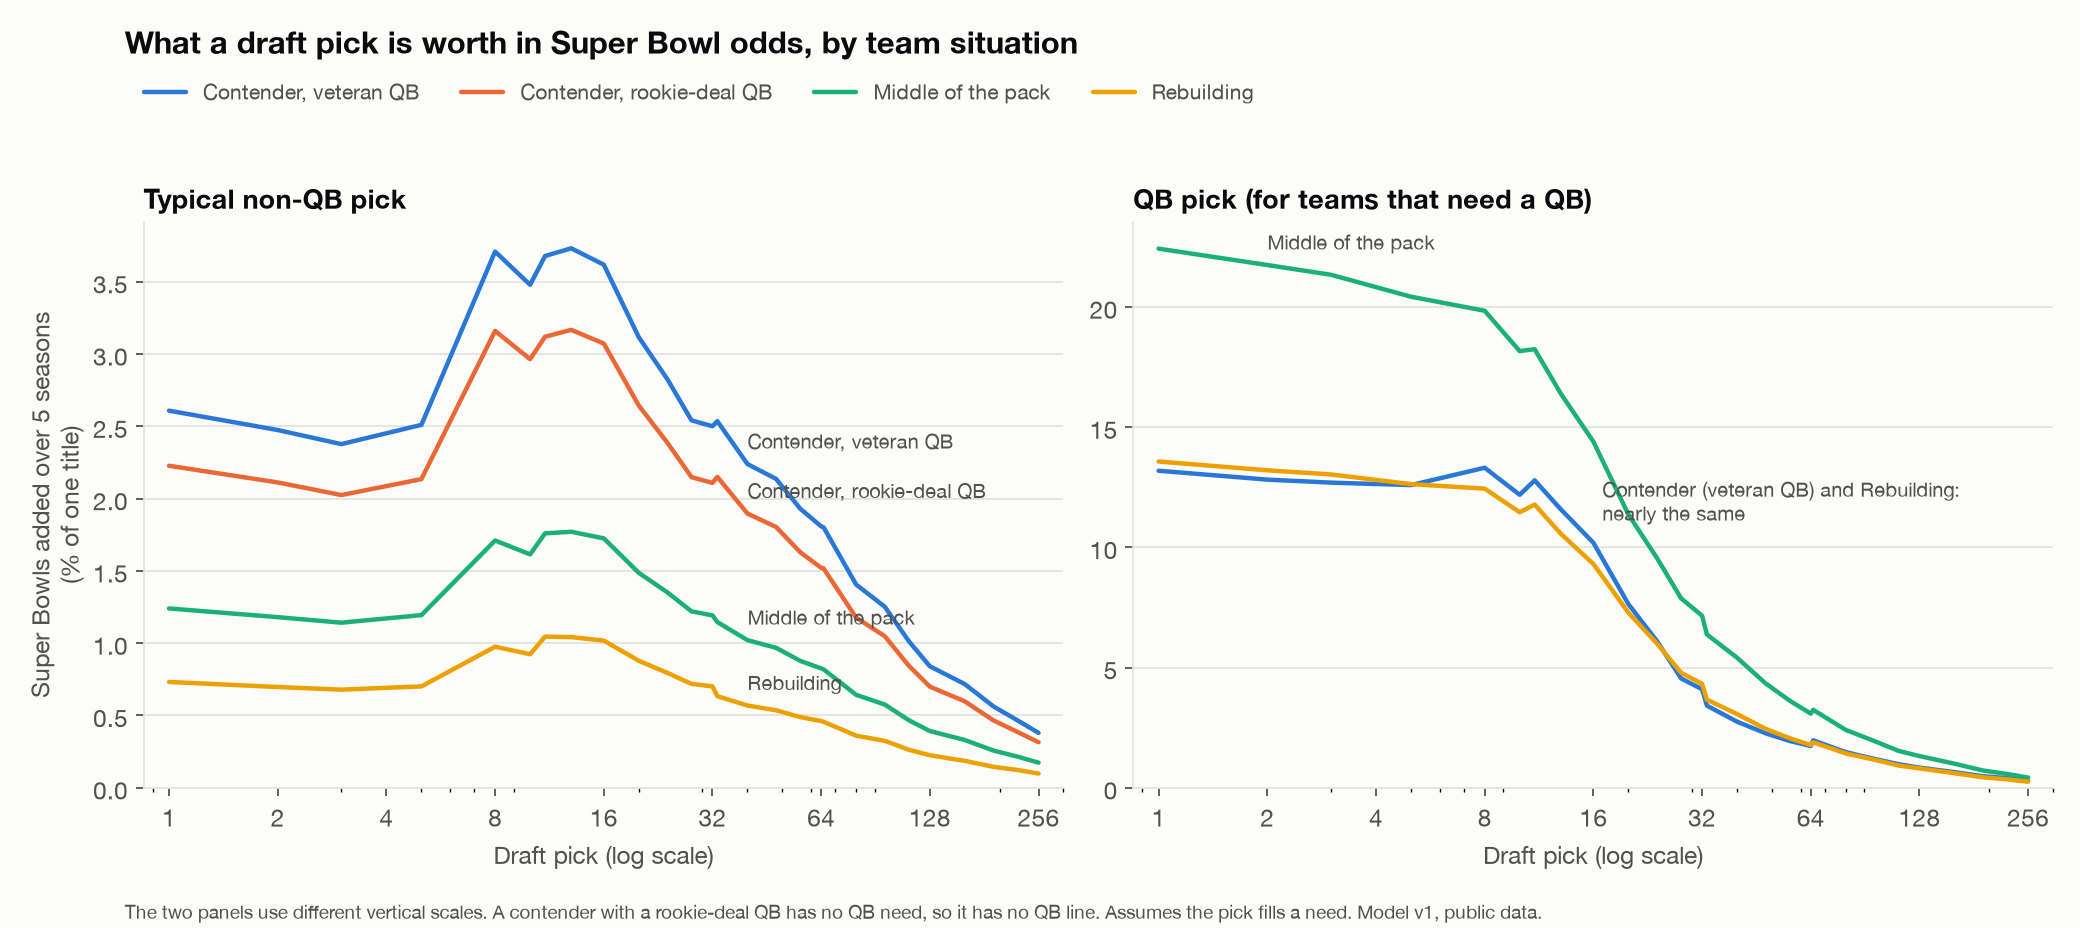
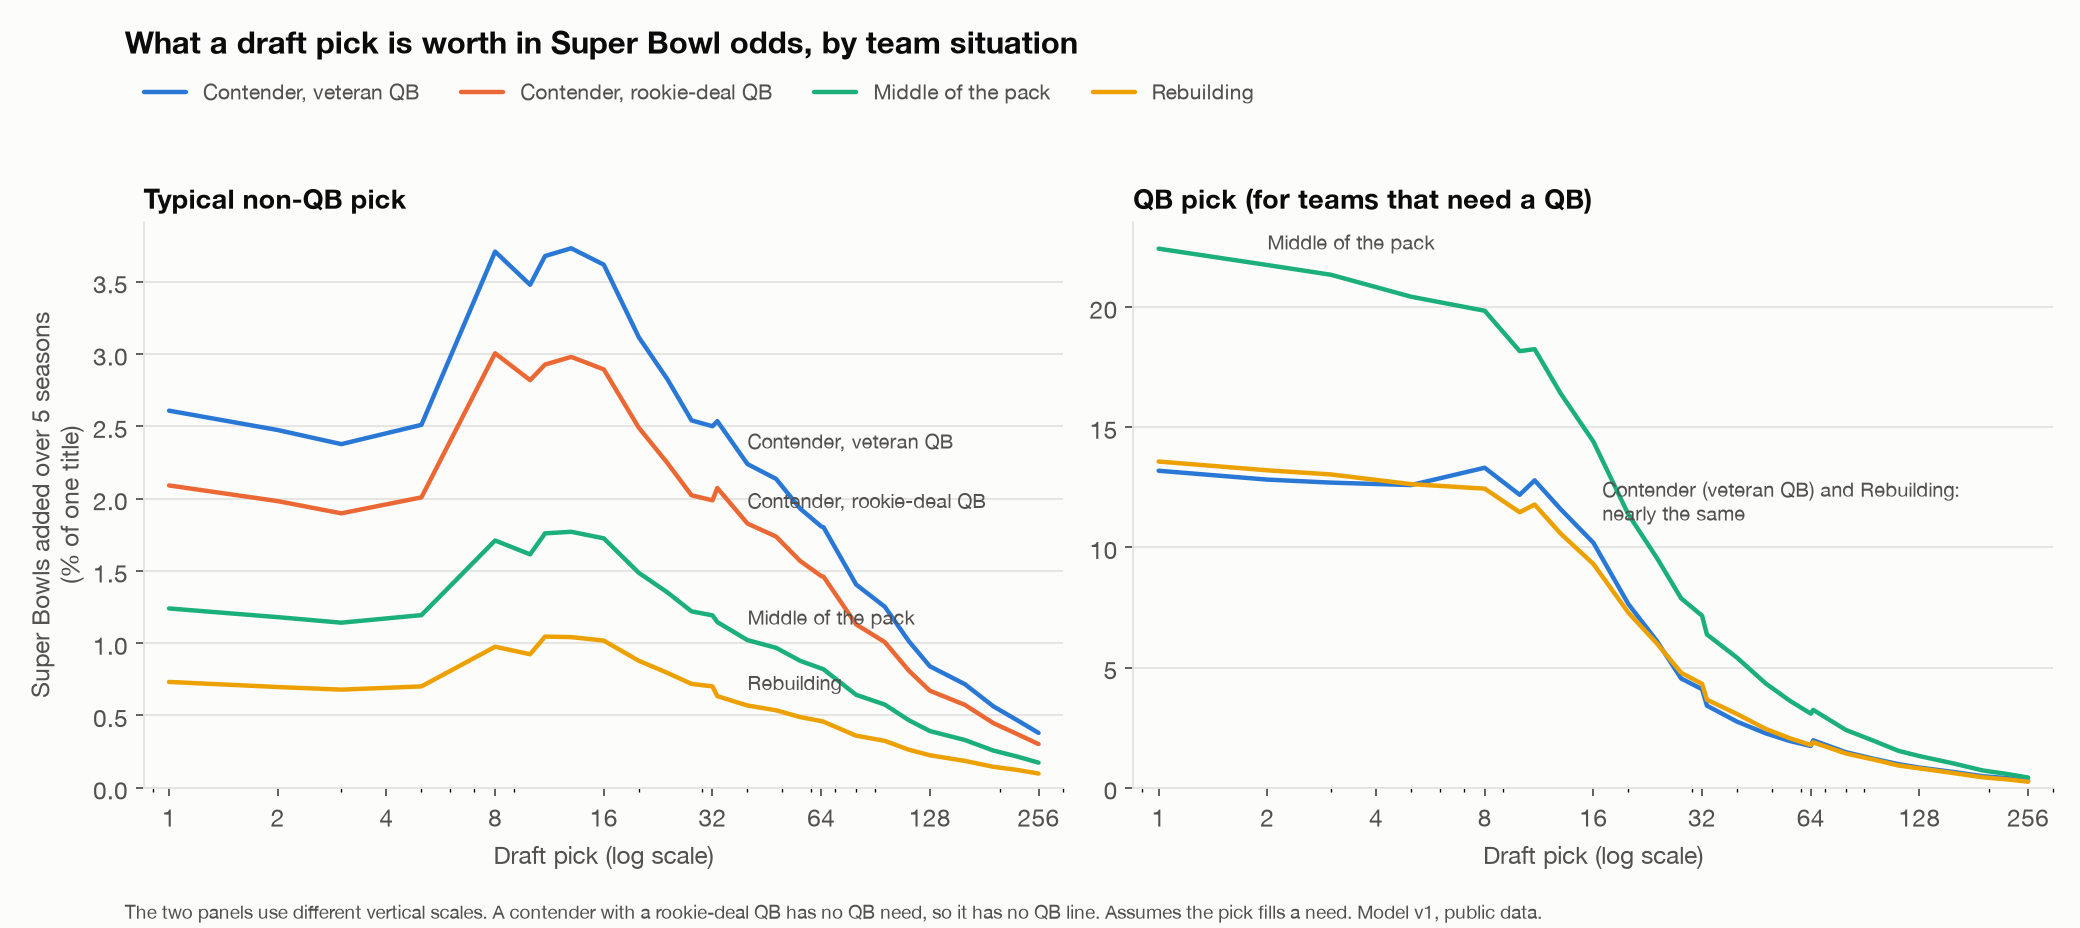
Real teams: 2027 draft value and trade verdicts for all 32 teams

diff --git a/src/teams.py b/src/teams.py
@@ -1,0 +1,225 @@
+"""Real teams: the 2027 draft from each team's actual situation.
+
+For each of the 32 teams:
+  1. Strength now: ratings fit to the betting lines of 2026 games (recent weeks
+     weighted more). The market already prices injuries and QB changes.
+     Expected 2027 strength = carryover (0.60) x strength now.
+  2. QB situation, from the QB with the most 2026 snaps, his contract and age:
+       rookie deal, round 1   -> no QB need; when his second contract starts, the
+                                 team loses ~3 pts (about 15% of cap moves to him)
+       rookie deal, later pick -> unproven; a drafted QB could take over in season 2
+       veteran aged 36+       -> successor needed as he ages out
+       veteran paid < 7% of cap -> stopgap; QB needed now
+       veteran paid more      -> no QB need
+  3. 2027 draft slot: the rest of the 2026 season simulated from actual results so
+     far and the market ratings. Draft order is by record (playoff teams last).
+     2027 firsts already traded (per the trade data, which ends April 2026) move
+     with their new owners.
+Then for each team: its first-round picks' value in Super Bowl odds, and verdicts
+on three moves (trade down, trade up for a QB if needed, sell next year's 1st).
+
+Everything here is a rule of thumb that the user can override per team via
+OVERRIDES (e.g. a QB injury the snap counts misread).
+"""
+from datetime import date
+
+import numpy as np
+import pandas as pd
+import polars as pl
+
+from outlook import OUT, RAW
+from pick_value import START_SD
+from simulate import RELOCATED, load_schedules
+from trade import Context, Pick, evaluate
+
+SEASON = 2026
+CARRY = 0.60
+QB_SHIFT = -3.0
+OVERRIDES: dict[str, dict] = {}  # e.g. {"NYJ": {"qb_from": 1}} after checking the news
+N = 10000
+
+
+# ---------- 1. strength now ----------
+
+def market_ratings(sched: pd.DataFrame) -> tuple[pd.Series, float]:
+    """Least-squares ratings from 2026 betting lines; recent weeks count more."""
+    g = sched[(sched.season == SEASON) & (sched.game_type == "REG") & sched.spread_line.notna()].copy()
+    last = g[g.result.notna()].week.max()
+    w = 0.5 ** ((last - g.week).clip(lower=0) / 4)  # half weight every 4 weeks back
+    teams = sorted(set(g.home_team) | set(g.away_team))
+    idx = {t: i for i, t in enumerate(teams)}
+    X = np.zeros((len(g), len(teams) + 1))
+    X[np.arange(len(g)), g.home_team.map(idx)] = 1
+    X[np.arange(len(g)), g.away_team.map(idx)] = -1
+    X[:, -1] = (g.location != "Neutral").astype(float)
+    sw = np.sqrt(w.to_numpy())
+    A = np.vstack([X * sw[:, None], np.r_[np.ones(len(teams)), 0] * 100])
+    y = np.r_[g.spread_line.to_numpy() * sw, 0]
+    beta, *_ = np.linalg.lstsq(A, y, rcond=None)
+    sign = np.sign(np.corrcoef(g.spread_line[g.result.notna()], g.result[g.result.notna()])[0, 1])
+    return pd.Series(beta[:-1] * sign, index=teams), beta[-1] * sign
+
+
+# ---------- 2. QB situation ----------
+
+def qb_situations(teams: list[str]) -> pd.DataFrame:
+    s = pl.read_parquet(RAW / "snap_counts_2026.parquet").filter(
+        (pl.col("position") == "QB") & (pl.col("game_type") == "REG")).to_pandas()
+    s["team"] = s.team.replace(RELOCATED)
+    snaps = s.groupby(["team", "pfr_player_id", "player"]).offense_snaps.sum().reset_index()
+    tot = snaps.groupby("team").offense_snaps.transform("sum")
+    snaps["share"] = snaps.offense_snaps / tot
+    players = pd.read_parquet(RAW / "players.parquet")
+    players = players.dropna(subset=["pfr_id"]).drop_duplicates("pfr_id").set_index("pfr_id")
+    c = pd.read_parquet(RAW / "contracts.parquet")
+    # Intended starter, in order:
+    #   1. a first-round QB from the last 3 drafts with 15%+ of snaps (most snaps if two)
+    #   2. the snap leader, if he has 60%+ of snaps
+    #   3. otherwise the highest-paid QB with 20%+ (a backup filling in for an injury)
+    latest_pay = c.sort_values("year_signed").groupby("otc_id").apy_cap_pct.last()
+    otc_of = pd.to_numeric(players.otc_id, errors="coerce")
+    snaps["pay"] = snaps.pfr_player_id.map(otc_of).map(latest_pay).fillna(0)
+    rd = snaps.pfr_player_id.map(players.draft_round)
+    yr = snaps.pfr_player_id.map(players.draft_year)
+    snaps["young_r1"] = (rd == 1) & (yr >= SEASON - 2)
+    picks = {}
+    for team, d in snaps.groupby("team"):
+        y = d[d.young_r1 & (d.share >= 0.15)]
+        lead = d.loc[d.offense_snaps.idxmax()]
+        if len(y):
+            picks[team] = y.loc[y.offense_snaps.idxmax()]
+        elif lead.share >= 0.6:
+            picks[team] = lead
+        else:
+            picks[team] = d[d.share >= 0.2].sort_values("pay").iloc[-1]
+    top = pd.DataFrame(picks).T
+    rows = []
+    for team in teams:
+        r = top.loc[team]
+        p = players.loc[r.pfr_player_id] if r.pfr_player_id in players.index else None
+        otc = pd.to_numeric(p.otc_id, errors="coerce") if p is not None else np.nan
+        k = c[c.otc_id == otc].sort_values("year_signed") if pd.notna(otc) else c.iloc[:0]
+        latest = k.iloc[-1] if len(k) else None
+        draft_year = p.draft_year if p is not None else np.nan
+        rnd = p.draft_round if p is not None else np.nan
+        birth = pd.to_datetime(p.birth_date) if p is not None and pd.notna(p.birth_date) else None
+        age27 = (pd.Timestamp("2027-09-01") - birth).days / 365.25 if birth is not None else np.nan
+        on_rookie = latest is not None and latest.year_signed == latest.draft_year
+        pay = latest.apy_cap_pct if latest is not None else np.nan
+
+        shift, qb_from = {}, None
+        if on_rookie and rnd == 1:
+            status = "rookie deal (1st round)"
+            start_season = int(draft_year) + 4 - SEASON  # 1 = 2027
+            if 1 <= start_season <= 5:
+                shift = {start_season: QB_SHIFT}
+        elif on_rookie:
+            status, qb_from = "rookie deal (later round)", 2
+        elif pd.notna(age27) and age27 >= 36:
+            status, qb_from = f"veteran, {age27:.0f} in 2027", int(np.clip(39 - age27, 1, 4))
+        elif pd.notna(pay) and pay < 0.07:
+            status, qb_from = "stopgap veteran", 1
+        else:
+            status = "paid veteran"
+        rows.append({"team": team, "qb": r.player, "qb_snap_share": r.share, "qb_status": status,
+                     "qb_pay": pay, "qb_age_2027": age27, "qb_from": qb_from, "shift": shift})
+    return pd.DataFrame(rows).set_index("team")
+
+
+# ---------- 3. 2027 draft slots ----------
+
+def draft_slots(sched: pd.DataFrame, rating: pd.Series, hfa: float, game_sd: float, rng) -> pd.DataFrame:
+    """(N, 32) simulated 2027 first-round slot for each team's own pick."""
+    g = sched[(sched.season == SEASON) & (sched.game_type == "REG")]
+    teams = list(rating.index)
+    idx = {t: i for i, t in enumerate(teams)}
+    done, left = g[g.result.notna()], g[g.result.isna()]
+    wins0 = np.zeros(len(teams))
+    for h, a, res in zip(done.home_team, done.away_team, done.result):
+        wins0[idx[h]] += 1 if res > 0 else (0.5 if res == 0 else 0)
+        wins0[idx[a]] += 1 if res < 0 else (0.5 if res == 0 else 0)
+    h = left.home_team.map(idx).to_numpy(); a = left.away_team.map(idx).to_numpy()
+    edge = np.where(left.location.to_numpy() == "Neutral", 0, hfa)
+    r = rating.to_numpy()
+    m = r[h] - r[a] + edge + game_sd * rng.standard_normal((N, len(h)))
+    wins = np.tile(wins0, (N, 1))
+    np.add.at(wins, (slice(None), h), m > 0)
+    np.add.at(wins, (slice(None), a), m < 0)
+    key = wins + rng.random(wins.shape) * 0.5
+    slot = np.argsort(np.argsort(key, axis=1), axis=1) + 1  # fewest wins -> 1
+    return pd.DataFrame(slot, columns=teams), wins
+
+
+def main():
+    sched = load_schedules()
+    ctx = Context()
+    rating, hfa = market_ratings(sched)
+    teams = list(rating.index)
+    qb = qb_situations(teams)
+    rng = np.random.default_rng(2027)
+    slots, wins = draft_slots(sched, rating, ctx.params["hfa_recent"], ctx.params["game_sd"], rng)
+
+    owner = {t: t for t in teams}
+    owner.update({"GB": "DAL", "IND": "NYJ", "DAL": "NYJ"})  # 2027 firsts traded (trade data to Apr 2026)
+    rows = []
+    for team in teams:
+        q = qb.loc[team]
+        qf = q["qb_from"]  # pandas turns None into NaN and ints into floats
+        sit = {"start": CARRY * rating[team], "shift": q["shift"],
+               "qb_from": None if pd.isna(qf) else int(qf)}
+        sit.update(OVERRIDES.get(team, {}))
+        need = sit["qb_from"] is not None
+        own_firsts = [t for t in teams if owner[t] == team]
+        med = {t: int(np.median(slots[t])) for t in own_firsts}
+        base = evaluate(ctx, sit, [], [], n=N, seed=1)["base"]  # titles expected without any picks
+        # value of the firsts the team owns (slot as a distribution)
+        firsts = [Pick(slots[t].to_numpy()[:N]) for t in own_firsts]
+        v_firsts = evaluate(ctx, sit, [], firsts, n=N, seed=2)["change"] if firsts else 0.0
+        out = {"team": team, "market_rating": rating[team], "exp_2027": sit["start"],
+               "wins_now": wins[:, teams.index(team)].mean(), "titles_base": base * 100, "qb": q.qb, "qb_share": q.qb_snap_share, "qb_status": q.qb_status,
+               "qb_need": ("now" if sit["qb_from"] == 1 else f"season {sit['qb_from']}") if need else "no",
+               "firsts": ", ".join(f"#{med[t]}" + ("" if t == team else f" (from {t})") for t in own_firsts) or "none",
+               "titles_value_firsts": v_firsts * 100}
+        if own_firsts:
+            k = min(med.values())
+            # Trade down ~10 spots plus a 2nd-round pick (roughly the market rate)
+            d = evaluate(ctx, sit, [Pick(k)], [Pick(min(k + 10, 40)), Pick(k + 42)], n=N, seed=3)
+            out["trade_down"] = d["change"] * 100
+            if need:
+                if k <= 5:
+                    qbm = evaluate(ctx, sit, [Pick(k)], [Pick(k, pos="QB")], n=N, seed=4)
+                    out["qb_move"] = f"take a QB at #{k}"
+                else:
+                    qbm = evaluate(ctx, sit, [Pick(k), Pick(k + 32), Pick(rnd=1, year=1)],
+                                   [Pick(5, pos="QB")], n=N, seed=4)
+                    out["qb_move"] = f"#{k}, #{k + 32}, next 1st -> #5 QB"
+                out["qb_move_value"] = qbm["change"] * 100
+            s = evaluate(ctx, sit, [Pick(rnd=1, year=1)], [Pick(30)], n=N, seed=5)
+            out["sell_next_1st"] = s["change"] * 100
+        rows.append(out)
+    df = pd.DataFrame(rows).sort_values("exp_2027", ascending=False)
+    df.to_csv(OUT / "teams_2027.csv", index=False)
+    write_report(df, qb)
+
+
+def write_report(df: pd.DataFrame, qb: pd.DataFrame):
+    f = lambda x: "" if pd.isna(x) else f"{x:+.1f}"
+    lines = [f"# 2027 draft in Super Bowl odds, team by team (as of {date.today():%b %d, %Y})", "",
+             "Values are the change in expected Super Bowls over 2027-2031, in % of one title.",
+             "Trade down = own top first for a pick ~10 spots later + a pick ~42 spots later.",
+             "Sell next 1st = own 2028 first for this year's #30.",
+             "QB = the team's intended starter: a 1st-round QB from the last 3 drafts with 15%+ of 2026 snaps; else the snap leader if 60%+; else the highest-paid QB with 20%+ (injury fill-in). Snap share in brackets; 'check' = under 70%, likely injury or QB change.",
+             "", "| Team | Strength now | 2027 exp. | QB (status) | QB need | 1sts (median slot) | Value of 1sts | Trade down | QB move | Sell next 1st |",
+             "|---|---|---|---|---|---|---|---|---|---|"]
+    for _, r in df.iterrows():
+        qbm = "" if pd.isna(r.get("qb_move")) else f"{r.qb_move}: {f(r.qb_move_value)}"
+        lines.append(f"| {r.team} | {r.market_rating:+.1f} | {r.exp_2027:+.1f} | {r.qb} [{r.qb_share:.0%}{', check' if r.qb_share < 0.7 else ''}] ({r.qb_status}) | {r.qb_need} "
+                     f"| {r.firsts} | {r.titles_value_firsts:.1f} | {f(r.get('trade_down'))} | {qbm} | {f(r.get('sell_next_1st'))} |")
+    lines += ["", "Caveats: QB status is a rule of thumb from 2026 snaps, contracts and age; an injured starter can be misread. "
+              "2027 pick ownership uses trade data through April 2026. Draft order is by record only."]
+    open("reports/teams_2027.md", "w").write("\n".join(lines))
+    print("\n".join(lines))
+
+
+if __name__ == "__main__":
+    main()

diff --git a/src/trade.py b/src/trade.py
@@ -39,7 +39,7 @@ LUCK_SD = TRUE_SD * np.sqrt(1 / 0.73 - 1)  # season luck around true strength (s
 
 @dataclass
 class Pick:
-    number: int | None = None     # overall pick, for this year's picks
+    number: int | np.ndarray | None = None  # overall pick (or one per simulation), this year
     pos: str = "nonqb"            # "QB", "nonqb" (typical mix), or a position group
     year: int = 0                 # 0 = this draft, 1 = next year, 2 = the year after
     rnd: int | None = None        # round, for future picks
@@ -68,8 +68,8 @@ class Context:
 def _slots(pick: Pick, sit: dict, base: np.ndarray, rng) -> np.ndarray:
     """Overall pick number per simulation."""
     n = len(base)
-    if pick.year == 0:
-        return np.full(n, pick.number)
+    if pick.year == 0:  # a fixed slot, or one slot per simulation
+        return np.broadcast_to(np.asarray(pick.number), (n,)).copy()
     # strength in the season before that draft
     if pick.src == "own":
         x = base[:, pick.year - 1]
@@ -118,7 +118,7 @@ def evaluate(ctx: Context, sit: dict | str, give: list[Pick], get: list[Pick], n
     t_give = ctx.sb(base + package_points(ctx, sit, give, base, rng)).sum(axis=1)
     t_get = ctx.sb(base + package_points(ctx, sit, get, base, rng)).sum(axis=1)
     d = t_get - t_give
-    return {"change": d.mean(), "se": d.std() / np.sqrt(n),
+    return {"change": d.mean(), "se": d.std() / np.sqrt(n), "base": ctx.sb(base).sum(axis=1).mean(),
             "keep": t_give.mean() - ctx.sb(base).sum(axis=1).mean(),
             "trade": t_get.mean() - ctx.sb(base).sum(axis=1).mean()}
 

diff --git a/src/pick_value.py b/src/pick_value.py
@@ -71,9 +71,11 @@ def strength_curve(sched, teams_df, params) -> pd.DataFrame:
 
 def baseline_paths(sit: dict, rng, n: int = N) -> np.ndarray:
     """(n, 5) true strength without the pick."""
-    m = np.zeros(5); m[0] = sit["start"]
-    for t in range(1, 5):
-        m[t] = CARRY * m[t - 1] + sit["shift"].get(t + 1, 0.0)
+    # Expected path drifts back toward average; scheduled shifts (e.g. a QB's big
+    # second contract) last from their season on, since that money is paid every year.
+    m = sit["start"] * CARRY ** np.arange(5)
+    for season, delta in sit["shift"].items():
+        m[season - 1:] += delta
     u = np.zeros((n, 5)); u[:, 0] = rng.normal(0, START_SD, n)
     innov = np.sqrt(1 - CARRY ** 2) * 5.3
     for t in range(1, 5):

diff --git a/reports/teams_2027.md b/reports/teams_2027.md
@@ -1,0 +1,43 @@
+# 2027 draft in Super Bowl odds, team by team (as of Nov 03, 2026)
+
+Values are the change in expected Super Bowls over 2027-2031, in % of one title.
+Trade down = own top first for a pick ~10 spots later + a pick ~42 spots later.
+Sell next 1st = own 2028 first for this year's #30.
+QB = the team's intended starter: a 1st-round QB from the last 3 drafts with 15%+ of 2026 snaps; else the snap leader if 60%+; else the highest-paid QB with 20%+ (injury fill-in). Snap share in brackets; 'check' = under 70%, likely injury or QB change.
+
+| Team | Strength now | 2027 exp. | QB (status) | QB need | 1sts (median slot) | Value of 1sts | Trade down | QB move | Sell next 1st |
+|---|---|---|---|---|---|---|---|---|---|
+| SEA | +5.3 | +3.2 | Sam Darnold [78%] (paid veteran) | no | #21 | 2.2 | +0.8 |  | +0.1 |
+| JAX | +5.3 | +3.2 | Trevor Lawrence [95%] (paid veteran) | no | #28 | 1.9 | +1.0 |  | +0.1 |
+| BUF | +4.5 | +2.7 | Josh Allen [99%] (paid veteran) | no | #30 | 1.8 | +0.8 |  | -0.0 |
+| LA | +4.5 | +2.7 | Matthew Stafford [98%] (veteran, 40 in 2027) | now | #19 | 2.1 | +0.8 | #19, #51, next 1st -> #5 QB: +21.2 | +0.0 |
+| SF | +4.4 | +2.7 | Brock Purdy [98%] (paid veteran) | no | #29 | 1.8 | +0.9 |  | -0.0 |
+| KC | +3.9 | +2.3 | Patrick Mahomes [100%] (paid veteran) | no | #26 | 1.8 | +0.9 |  | -0.0 |
+| DEN | +3.4 | +2.0 | Bo Nix [100%] (rookie deal (1st round)) | no | #28 | 1.0 | +0.5 |  | +0.2 |
+| CIN | +3.2 | +1.9 | Joe Burrow [99%] (paid veteran) | no | #27 | 1.7 | +0.9 |  | -0.0 |
+| HOU | +3.2 | +1.9 | C.J. Stroud [100%] (rookie deal (1st round)) | no | #15 | 1.0 | +0.3 |  | -0.1 |
+| DET | +2.3 | +1.4 | Jared Goff [99%] (paid veteran) | no | #26 | 1.7 | +0.8 |  | -0.1 |
+| NE | +2.0 | +1.2 | Drake Maye [98%] (rookie deal (1st round)) | no | #22 | 1.0 | +0.4 |  | +0.1 |
+| DAL | +2.0 | +1.2 | Dak Prescott [100%] (paid veteran) | no | #20 (from GB) | 1.8 | +0.6 |  | -0.1 |
+| CHI | +1.9 | +1.1 | Caleb Williams [59%, check] (rookie deal (1st round)) | no | #25 | 0.9 | +0.5 |  | +0.0 |
+| GB | +0.8 | +0.5 | Jordan Love [100%] (paid veteran) | no | none | 0.0 |  |  |  |
+| MIN | +0.6 | +0.4 | Kyler Murray [76%] (stopgap veteran) | now | #26 | 1.5 | +0.7 | #26, #58, next 1st -> #5 QB: +17.6 | -0.2 |
+| PIT | +0.0 | +0.0 | Aaron Rodgers [98%] (veteran, 44 in 2027) | now | #23 | 1.4 | +0.6 | #23, #55, next 1st -> #5 QB: +16.8 | -0.2 |
+| LAC | -0.4 | -0.2 | Justin Herbert [100%] (paid veteran) | no | #4 | 1.3 | +1.7 |  | -0.2 |
+| CAR | -0.5 | -0.3 | Bryce Young [95%] (rookie deal (1st round)) | no | #14 | 0.7 | +0.2 |  | -0.1 |
+| BAL | -0.5 | -0.3 | Lamar Jackson [48%, check] (paid veteran) | no | #15 | 1.5 | +0.5 |  | -0.2 |
+| ATL | -1.2 | -0.7 | Michael Penix [73%] (rookie deal (1st round)) | no | #11 | 0.8 | +0.4 |  | -0.0 |
+| TB | -2.2 | -1.3 | Baker Mayfield [58%, check] (paid veteran) | no | #10 | 1.4 | +0.8 |  | -0.3 |
+| WAS | -2.6 | -1.5 | Jayden Daniels [64%, check] (rookie deal (1st round)) | no | #9 | 0.7 | +0.4 |  | -0.1 |
+| LV | -2.7 | -1.6 | Kirk Cousins [98%] (veteran, 39 in 2027) | now | #12 | 1.3 | +0.5 | #12, #44, next 1st -> #5 QB: +13.9 | -0.3 |
+| NO | -2.9 | -1.7 | Tyler Shough [100%] (rookie deal (later round)) | season 2 | #8 | 1.3 | +0.8 | #8, #40, next 1st -> #5 QB: +11.6 | -0.3 |
+| IND | -3.0 | -1.8 | Daniel Jones [98%] (paid veteran) | no | none | 0.0 |  |  |  |
+| NYG | -3.5 | -2.1 | J.J. McCarthy [20%, check] (rookie deal (1st round)) | no | #16 | 0.7 | +0.2 |  | -0.1 |
+| PHI | -3.5 | -2.1 | Jalen Hurts [60%, check] (paid veteran) | no | #6 | 1.2 | +1.1 |  | -0.3 |
+| NYJ | -3.6 | -2.1 | Geno Smith [100%] (veteran, 37 in 2027) | season 2 | #15 (from DAL), #7 (from IND), #5 | 3.9 | +1.3 | take a QB at #5: +14.0 | -0.3 |
+| CLE | -3.8 | -2.3 | Deshaun Watson [99%] (paid veteran) | no | #17 | 1.3 | +0.4 |  | -0.3 |
+| ARI | -3.9 | -2.3 | Jacoby Brissett [94%] (stopgap veteran) | now | #9 | 1.2 | +0.8 | #9, #41, next 1st -> #5 QB: +13.2 | -0.2 |
+| MIA | -5.9 | -3.5 | Malik Willis [100%] (paid veteran) | no | #2 | 0.9 | +1.2 |  | -0.3 |
+| TEN | -7.2 | -4.3 | Cam Ward [100%] (rookie deal (1st round)) | no | #2 | 0.4 | +0.7 |  | -0.1 |
+
+Caveats: QB status is a rule of thumb from 2026 snaps, contracts and age; an injured starter can be misread. 2027 pick ownership uses trade data through April 2026. Draft order is by record only.

diff --git a/README.md b/README.md
@@ -28,3 +28,4 @@ middle-of-the-pack team, rebuilding team. Real teams come later.
 - [x] M3b: bridge (src/bridge.py) - points of team strength per 1% of cap in player value: QB ~0.31-0.34, everyone else ~0.19, league-wide ~0.22. Same answer with leak-free pre-season prices. Position splits beyond QB vs non-QB do not predict better out of sample
 - [x] M4: pick value in Super Bowl odds (src/pick_value.py, chart in reports/pick_value_titles.png). Assumes: the pick fills a need (his snaps would otherwise go to a min-salary player); saved cap buys non-QB veterans at 0.19 pts per 1%; situations start at +7 / +7 then -3 from season 3 / 0 / -5, drifting to average at 60% carryover
 - [x] Trade calculator (src/trade.py): evaluate(ctx, situation, give=[Pick...], get=[Pick...]) -> change in Super Bowls over 5 seasons. Future picks' slots drawn from the source team's likely finish. Scored 394 real pick-only trades 2013-2025 (`python src/trade.py --real-only`).
+- [x] Real teams (src/teams.py -> reports/teams_2027.md): market ratings from 2026 betting lines, QB situation from snaps/contracts/age, 2027 slots from simulating the rest of 2026. Per-team overrides in OVERRIDES. Note: QB cap hit from a rookie-deal QB's second contract now lasts every season (was fading); M4 numbers for that situation moved by <=0.2.
